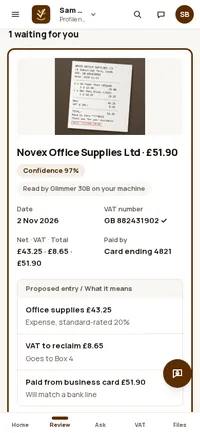
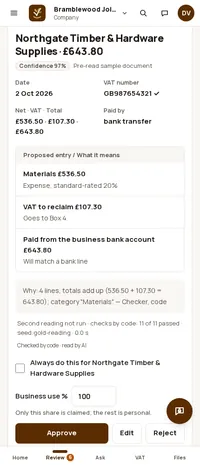
Hero screenshots: the demo's Review card with receipt, amount and the decision in one frame
The landing page's hero and phone images are now taken in the demo sandbox on the merged
Review (e2e/hero-shots.spec.ts, docs/submission/shots/hero-review*.png): the top bar
names Bramblewood Joinery Ltd from the demo's own profile, and one pre-read waiting
document (Northgate Timber & Hardware Supplies, £643.80, £107.30 VAT to reclaim) shows
its receipt, supplier and amount, the facts read, the proposed entry and Approve · Edit
· Reject together, rather than most of the frame going to scan status with the card cut
off. Nothing is drawn or edited: whole frames at 1280 × 860 (the card needs 60 px more
than 16:10) and 430 × 1000 (the phone, from the supplier line to the decision row, which
no 390 × 844 frame can hold). The card says "Pre-read sample document" and
seed:gold-reading, so no test-stub or model claim is in the picture. Alt texts, the
caption (an invoice, in the demo sandbox) and the <Shot> sizes follow; the caption
keeps clear of the taller phone frame. marketing-images.py reads the new sources; the
step and feature crops are unchanged.

sandbox.spec: a finished upload job is the quiet row from the UI polish merge (no
progress bars), so the spec checks the row's stage and that the bars are gone.

Claude-Session: https://claude.ai/code/session_01HDbAb5qAD2ukYVcgsejwnd

diff --git a/apps/web/src/components/marketing/Landing.tsx b/apps/web/src/components/marketing/Landing.tsx
@@ -324,10 +324,10 @@ function Hero() {
               srcSet="/shots/hero-review-640.webp 640w, /shots/hero-review-1280.webp 1280w"
               sizes="(min-width: 1024px) 600px, 72vw"
               width={1280}
-              height={800}
+              height={860}
               eager
               priority
-              alt="Accnomos Review page: the Novex Office Supplies receipt has been read, £51.90 with £8.65 VAT, confidence 97 %, waiting for approval."
+              alt="Accnomos Review in the demo sandbox, books of the fictional Bramblewood Joinery Ltd: a timber and hardware invoice from Northgate Timber & Hardware Supplies, £643.80 with £107.30 VAT to reclaim, shown beside its proposed entry and the Approve, Edit and Reject buttons."
             />
           </BrowserFrame>
           <PhoneFrame className="hero-phone absolute -bottom-12 left-0 w-[34%] max-w-[200px] sm:w-[30%]">
@@ -336,13 +336,14 @@ function Hero() {
               srcSet="/shots/hero-phone-200.webp 200w, /shots/hero-phone.webp 390w"
               sizes="(min-width: 640px) 200px, 34vw"
               width={390}
-              height={844}
+              height={907}
               eager
-              alt="The same Novex proposal on a phone, with the proposed entry: office supplies £43.25, VAT to reclaim £8.65."
+              alt="The same Northgate invoice on a phone: supplier and amount, the proposed entry (materials £536.50, VAT to reclaim £107.30) and the Approve, Edit and Reject buttons."
             />
           </PhoneFrame>
-          <p className="mt-16 text-right text-[13px] text-ground/65">
-            One receipt on the phone and on the web: the real app, with the fictional sample books.
+          {/* The phone frame overhangs the column's left edge: the caption starts clear of it. */}
+          <p className="mt-16 pl-[8%] text-right text-[13px] text-ground/65">
+            One invoice on the phone and on the web: the real app in its demo sandbox, with the fictional sample books.
           </p>
         </div>
       </div>

diff --git a/apps/web/e2e/sandbox.spec.ts b/apps/web/e2e/sandbox.spec.ts
@@ -150,7 +150,9 @@ test("demo sandbox: Add a receipt reads only the upload, with progress, a type t
 
   await row.getByRole("button", { name: "Confirm", exact: true }).click();
   await expect(row).toHaveAttribute("data-stage", /^(ready|needs_a_look)$/, { timeout: 30_000 });
-  await expect(row.getByRole("progressbar")).toHaveAttribute("aria-valuenow", "100");
+  // A finished job folds into the quiet row (ScanProgress.tsx): its bars are gone, the file's stage label stays.
+  await expect(page.locator("[data-scan-quiet]")).toHaveCount(1);
+  await expect(row.getByRole("progressbar")).toHaveCount(0);
   await expect(status(page)).toHaveText("1 new proposal");
   await expect(page.getByText("7 waiting for you")).toBeVisible();
   await expect(page.getByRole("region", { name: "Novex Office Supplies Ltd · £51.90" })).toBeVisible();

diff --git a/apps/web/scripts/marketing-images.py b/apps/web/scripts/marketing-images.py
@@ -1,8 +1,9 @@
 """Make the website's screenshots (apps/web/public/shots/*.webp) from the real ones in the repo.
 
-Sources: docs/submission/shots/ (the web app in test mode with the fictional sample books, taken by e2e/demo.spec.ts and
-e2e/shots.spec.ts), apps/mobile/screenshots/ (the Android app on an emulator, company demo, labelled sample data) and
-apps/web/public/sample-receipt.png. Every output is a crop or resize of one of those: nothing is drawn or edited.
+Sources: docs/submission/shots/ (the web app in test mode with the fictional sample books, taken by e2e/demo.spec.ts,
+e2e/shots.spec.ts and, for the hero, e2e/hero-shots.spec.ts in the demo sandbox), apps/mobile/screenshots/ (the Android
+app on an emulator, company demo, labelled sample data) and apps/web/public/sample-receipt.png. Every output is a crop or
+resize of one of those: nothing is drawn or edited.
 Run from the repo root: `python apps/web/scripts/marketing-images.py` (needs Pillow with WebP).
 """
 
@@ -19,11 +20,13 @@ OUT = ROOT / "apps/web/public/shots"
 
 # name: (source, crop box in source pixels or None, output width)
 JOBS: dict[str, tuple[Path, tuple[int, int, int, int] | None, int]] = {
-    # Hero: the Review page with the Novex receipt read and waiting; the same card at phone width.
-    "hero-review-1280": (SHOTS / "04-scan.png", None, 1280),
-    "hero-review-640": (SHOTS / "04-scan.png", None, 640),
-    "hero-phone": (SHOTS / "05-proposal-phone.png", None, 390),
-    "hero-phone-200": (SHOTS / "05-proposal-phone.png", None, 200),  # shown at about 130-200 px wide
+    # Hero: Review in the demo sandbox, a pre-read timber invoice with its receipt, supplier and amount, the proposed
+    # entry and Approve · Edit · Reject in one frame (e2e/hero-shots.spec.ts); the same card at phone width, from the
+    # supplier line to the decision row. Whole frames: the sizes in Landing.tsx's <Shot> follow the sources.
+    "hero-review-1280": (SHOTS / "hero-review.png", None, 1280),
+    "hero-review-640": (SHOTS / "hero-review.png", None, 640),
+    "hero-phone": (SHOTS / "hero-review-phone.png", None, 390),
+    "hero-phone-200": (SHOTS / "hero-review-phone.png", None, 200),  # shown at about 130-200 px wide
     # The five steps of the process animation (main column of the 232 px sidebar layout, 1016 x 635 scaled to 816
     # x 510 at 16:10; the highlight boxes in
     # src/components/marketing/ProcessDemo.tsx are percentages of these crops).

diff --git a/docs/submission/shots/README.md b/docs/submission/shots/README.md
@@ -2,6 +2,11 @@
 
 Labelled sample books (Bramblewood Joinery Ltd, fictional) at 1280×800 (`*.png`) and 390×844 (`*-phone.png`), light theme. Taken by `apps/web/e2e/shots.spec.ts` (`SHOTS=1`); every shot asserts the `SAMPLE — FICTIONAL COMPANY` label before capture. The `01–14` files belong to the demo video flow (`e2e/demo.spec.ts`); the files below are the app-page set.
 
+The landing page's hero (`apps/web/public/shots/hero-*.webp`, via `apps/web/scripts/marketing-images.py`) comes from two more, taken by `apps/web/e2e/hero-shots.spec.ts` (`HERO_SHOTS=1`) in the demo sandbox, whose top bar names the company from the demo's own profile:
+
+- `hero-review.png` — Review in the company demo at 1280×860, scrolled to one pre-read waiting document (Northgate Timber & Hardware Supplies, £643.80, VAT £107.30): the receipt, supplier and amount, the facts read, the proposed entry and Approve · Edit · Reject in one frame. The card says "Pre-read sample document" and `seed:gold-reading`: no model ran on it. The demo bar scrolls off with the page; the receipt carries the SAMPLE — FICTIONAL COMPANY stamp.
+- `hero-review-phone.png` — the same card at 430×1000 (an iPhone Pro Max's CSS width, taller so the decision row fits above the tab bar), from the supplier line to Approve · Edit · Reject.
+
 - `home.png` — Home: signed-out pitch with the sample dashboard for the fictional demo company.
 - `home-phone.png` — Home at phone width, same pitch and sample dashboard.
 - `review-proposal.png` — Review: the Novex Office Supplies sample proposal with its document viewer open (original beside the crop).
